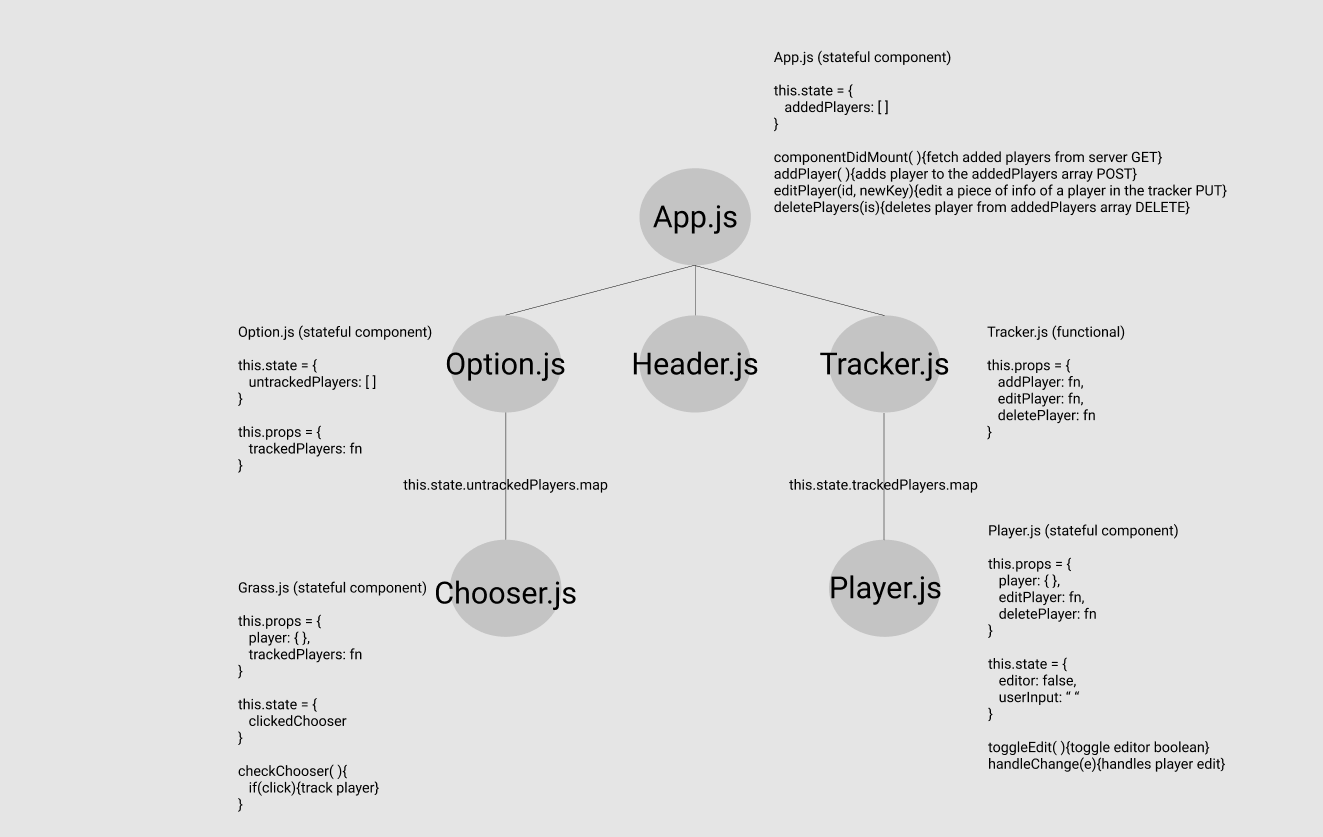
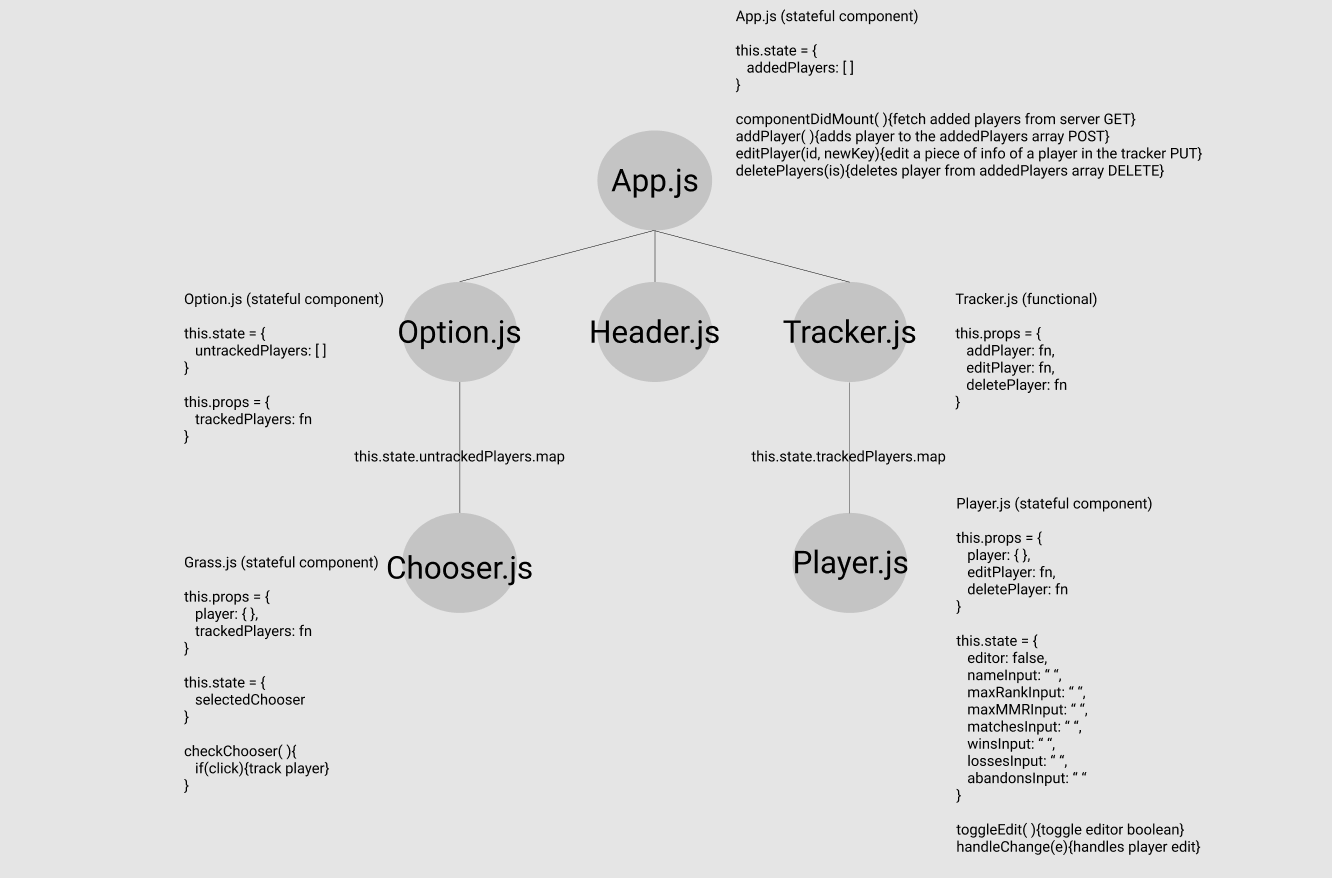
Plan approved, ready to code!

diff --git a/README.md b/README.md
@@ -30,9 +30,9 @@
 - App.js (stateful: hold added players in the stat tracker, this.state.seasonsAdded)
     - Header.js (functional)
     - Option.js (stateful: axios request to fetch all 7 players)
-        - Chooser.js (stateful: this.state.clickedChooser)
+        - Chooser.js (stateful: this.state.selectedChooser)
     - Tracker.js (functional)
-        - Player.js (stateful: this.state.name, this.state.maxRank, this.state.maxMMR, this.state.gamesPlayed, this.state.gamesWon, this.state.gamesLost, this.state.gamesAbandoned this.state.winPercent this.state.editing)
+        - Player.js (stateful: this.state.name, this.state.maxRank, this.state.maxMMR, this.state.matches, this.state.wins, this.state.losses, this.state.abandons this.state.winPercent this.state.editing)
 
 ### Wireframe
 <img src="./screenshots/Capture3.PNG"/>
